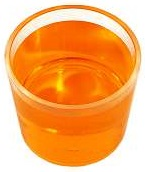
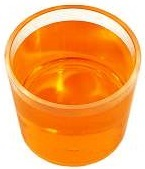
写真微調整,アルコール・アルデヒドのページ作成,ポインタープラグインを追加

diff --git a/index.html b/index.html
@@ -33,6 +33,7 @@
 	<!-- Theme used for syntax highlighting of code -->
 	<link rel="stylesheet" href="plugin/highlight/monokai.css">
 
+	<link rel="stylesheet" href="plugin/pointer/pointer.css" />
 </head>
 
 <body>
@@ -58,9 +59,9 @@
 				<ul style="font-size: xx-large;">
 					<li>鎮静薬の歴史</li>
 					<li>鎮静薬の分類</li>
-					<li>鎮静薬の特徴</li>
+					<li>それぞれの薬剤の特徴</li>
 					<li>全国での使用状況</li>
-					<li>小児科での使用状況</li>
+					<li>熊大での使用状況</li>
 				</ul>
 			</section>
 
@@ -74,6 +75,7 @@
 					<h3>
 						鎮静薬の歴史
 					</h3>
+					<hr>
 					<div style="display:flex; display:-webkit-flex; display:-moz-flex;">
 						<div style="width:auto;flex: 1 0 90px;" class="r-stack">
 							<img class="fragment current-visible" data-fragment-index="30" src="fig\モルヒネ.png"
@@ -178,9 +180,9 @@
 					<div style="background-color: rgb(162, 211, 255);margin: 15px 10px 15px 10px;width:auto;flex:1 0">
 						<p style="font-size: 32px;"><b>抗ヒスタミン薬</b></p>
 						<ul style="font-size: 24px;">
-							<li>フェノバルビタール</li>
-							<li>ペントバルビタール</li>
-							<li>チアミラール</li>
+							<li>ヒドロキシジン</li>
+							<li>ジフェンヒドラミン</li>
+							<li>d-クロルフェニラミン</li>
 						</ul>
 					</div>
 					<div style="background-color: rgb(162, 211, 255);margin: 15px 10px 15px 10px;width:auto;flex:1 0">
@@ -203,8 +205,48 @@
 			</section>
 
 			<section>
-				<h2>アルコール・アルデヒド</h2>
-				
+				<section data-auto-animate>
+					<h3>アルコール・アルデヒド</h3>
+				</section>
+
+				<section data-auto-animate>
+					<h3>アルコール・アルデヒド</h3>
+					<hr>
+					<div style="display: flex; width: auto 1 0">
+						<div style="width: auto;flex: 1 1 ;">
+							<img src="fig/トリクロリールシロップ.jpg" width="40%">
+							<p style="font-size: 16px; margin-top:-30px;margin-bottom: 0px;">トリクロリールシロップ</p>
+							<img src="fig/エスクレ坐剤.jpg" width="60%">
+							<p style="font-size: 16px; margin: -30px; margin-bottom: 0px;">エスクレ坐剤</p>
+							<img src="fig/エスクレ注腸キット.jpg" width="70%">
+							<p style="font-size: 16px; margin: -30px; margin-bottom: 0px;">エスクレ注腸用キット</p>
+						</div>
+						<div style="width: auto;flex: 1 1 300px;">
+							<ul style="font-size: 36px;">
+								<li>作用機序</li>
+								<ul>
+									<li style="font-size: 27px;">体内でトリクロロエタノールに代謝され、GABA受容体に作用し中枢神経抑制作用を示す</li>
+								</ul>
+								<br>
+								<li>利点
+									<ul>
+										<li style="font-size: 28px;">静脈経路が必要ない</li>
+										<li style="font-size: 28px;">小児科領域では広く使われている薬剤であり、馴染みがある</li>
+										<li style="font-size: 28px;">オレンジの香りで、小児でも飲みやすい</li>
+									</ul>
+									<br>
+								<li>欠点
+									<ul>
+										<li style="font-size: 28px;">効果発現が遅く（30~60分）、作用持続時間も長い（2~8時間）</li>
+										<li style="font-size: 28px;">鎮痛作用はない</li>
+										<li style="font-size: 28px;">坐剤にはゼラチンが含まれるためアレルギーに注意</li>
+									</ul>
+								</li>
+								</li>
+							</ul>
+						</div>
+					</div>
+				</section>
 			</section>
 
 			<section data-background-iframe="fig\p-Q3-4.html" data-background-interactive data-preload>
@@ -227,6 +269,7 @@
 	<script src="plugin/search/search.js"></script>
 	<script src="plugin/markdown/markdown.js"></script>
 	<script src="plugin/highlight/highlight.js"></script>
+	<script src="plugin/pointer/pointer.js"></script>
 	<script>
 
 		// Also available as an ES module, see:
@@ -243,7 +286,7 @@
 			// concave	Slide at a concave angle
 			// zoom	Scale the incoming slide up so it grows in from the center of the screen
 			// Learn about plugins: https://revealjs.com/plugins/
-			plugins: [RevealZoom, RevealNotes, RevealSearch, RevealMarkdown, RevealHighlight]
+			plugins: [RevealZoom, RevealNotes, RevealSearch, RevealMarkdown, RevealHighlight, RevealPointer]
 		});
 
 		// Reveal.initialize({

diff --git a/plugin/pointer/pointer.js b/plugin/pointer/pointer.js
@@ -1,0 +1,1 @@
+var RevealPointer=function(){"use strict";var e={backspace:8,tab:9,enter:13,shift:16,ctrl:17,alt:18,pausebreak:19,capslock:20,esc:27,space:32,pageup:33,pagedown:34,end:35,home:36,leftarrow:37,uparrow:38,rightarrow:39,downarrow:40,insert:45,delete:46,0:48,1:49,2:50,3:51,4:52,5:53,6:54,7:55,8:56,9:57,a:65,b:66,c:67,d:68,e:69,f:70,g:71,h:72,i:73,j:74,k:75,l:76,m:77,n:78,o:79,p:80,q:81,r:82,s:83,t:84,u:85,v:86,w:87,x:88,y:89,z:90,leftwindowkey:91,rightwindowkey:92,selectkey:93,numpad0:96,numpad1:97,numpad2:98,numpad3:99,numpad4:100,numpad5:101,numpad6:102,numpad7:103,numpad8:104,numpad9:105,multiply:106,add:107,subtract:109,decimalpoint:110,divide:111,f1:112,f2:113,f3:114,f4:115,f5:116,f6:117,f7:118,f8:119,f9:120,f10:121,f11:122,f12:123,numlock:144,scrolllock:145,semicolon:186,equalsign:187,comma:188,dash:189,period:190,forwardslash:191,graveaccent:192,openbracket:219,backslash:220,closebracket:221,singlequote:222};return function(){var t={},o=!1,n=null,a={x:0,y:0,isVisible:!1},i={x:0,y:0,scale:1};function l(o){var n;null==(t=o.pointer||{}).key?t.key="q":t.key=t.key.toLowerCase(),null!=t.pointerSize&&"number"==typeof t.pointerSize||(t.pointerSize=12),null!=t.tailLength&&"number"==typeof t.tailLength||(t.tailLength=10),null!=t.color&&"string"==typeof t.color||(t.color="red"),null!=t.alwaysVisible&&"boolean"==typeof t.alwaysVisible||(t.alwaysVisible=!1),null!=t.opacity&&"number"==typeof t.opacity||(t.opacity=.8),t.keyCode=(n=t.key,e[n])}function r(){n.style.top="".concat((a.y-i.y)/i.scale,"px"),n.style.left="".concat((a.x-i.x)/i.scale,"px"),a.isVisible?n.style.opacity=t.opacity.toString():n.style.opacity="0",1!==i.scale?(n.style.width="".concat(t.pointerSize/i.scale,"px"),n.style.height="".concat(t.pointerSize/i.scale,"px")):(n.style.width="".concat(t.pointerSize,"px"),n.style.height="".concat(t.pointerSize,"px"))}function c(e){a.x=e.pageX,a.y=e.pageY;var t=document.body.style.transform;""!==t?(i.x=Number.parseInt(/translate\((.*)px,/gm.exec(t)[1]),i.y=Number.parseInt(/px,\s(.*)px\)/gm.exec(t)[1]),i.scale=Number.parseFloat(/scale\((.)\)/gm.exec(t)[1])):(i.x=0,i.y=0,i.scale=1),requestAnimationFrame(r)}function s(){(o=!o)?(document.addEventListener("mousemove",c),document.body.classList.add("no-cursor"),a.isVisible=!0):(document.removeEventListener("mousemove",c),document.body.classList.remove("no-cursor"),a.isVisible=!1,requestAnimationFrame(r))}return{id:"pointer",init:function(e){var o;l(e.getConfig()),t.alwaysVisible?s():e.addKeyBinding({keyCode:t.keyCode,key:t.key},(function(){s()})),e.on("pointerColorChange",(function(e){var o;o=e.color,null!=n&&(n.style.backgroundColor=null!=o?o:t.color)})),(o=document.createElement("div")).className="cursor-dot",o.style.width="".concat(t.pointerSize,"px"),o.style.height="".concat(t.pointerSize,"px"),o.style.backgroundColor=t.color,t.alwaysVisible&&(o.style.opacity="0.8"),document.body.appendChild(o),n=o}}}}();

diff --git a/plugin/pointer/pointer.css b/plugin/pointer/pointer.css
@@ -1,0 +1,1 @@
+.cursor-dot,.cursor-dot-outline{pointer-events:none;position:absolute;top:0;left:0;border-radius:50%;opacity:0;transform:translate(-50%,-50%);transition:opacity 0.3s ease-in-out,transform 0.3s ease-in-out;}.cursor-dot{width:12px;height:12px;background-color:red;z-index:1;}.no-cursor{cursor:none;}.no-cursor a,.no-cursor div,.no-cursor span{cursor:none;}
